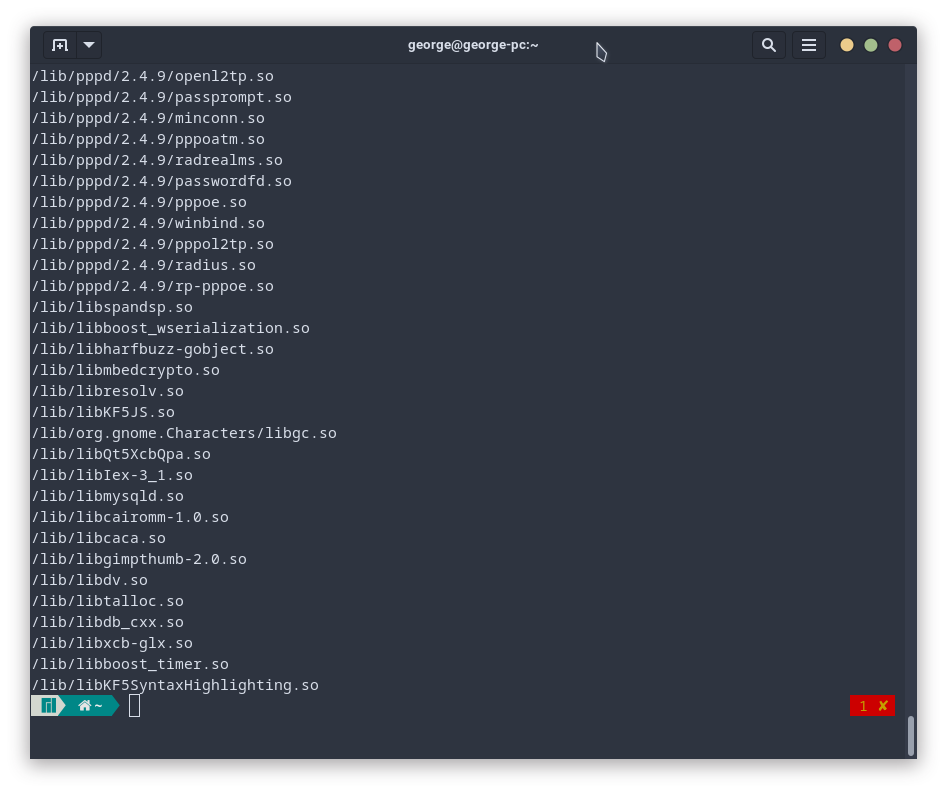
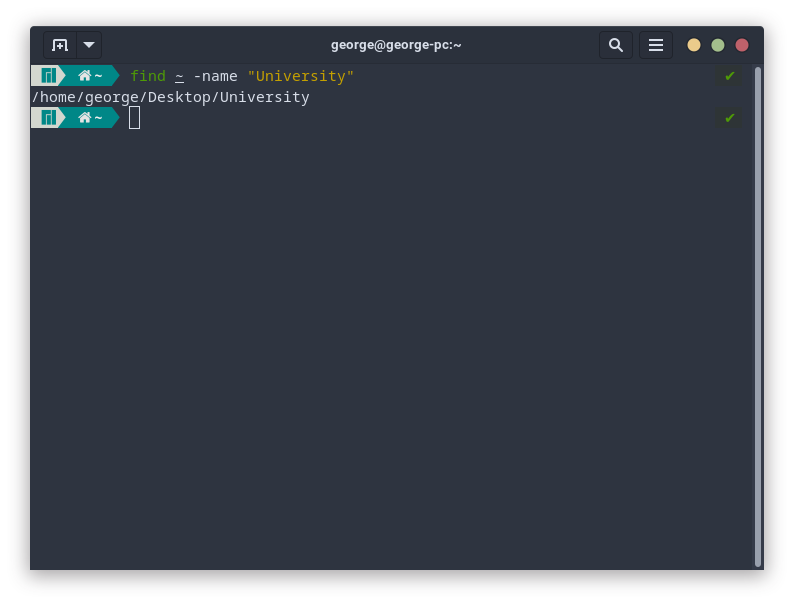
add

Changed region(s): [[0.0302, 0.0298, 0.9673, 0.9834]]

diff --git a/README.md b/README.md
@@ -337,14 +337,84 @@ $ ps -ef | grep -w "$USER"
 
 **32.** Написать команду поиска с заданным именем файла в заданной директории. Проверить работоспособность.  
 ```shell
-$ find /lib/ -iname '*.so'
+$ find ~ -name "University"  
 ```
 ***Вывод:***  
 ![32.png](/images/find/32.png)
 
 ---
 
-**33.** 
+**33.** Написать команду поиска файлов по маске
+```shell
+$ find FOLDER -name MASK 
+```
+например
+```shell
+$ find /lib/ -name "*.so"
+```
+
+---
+
+**34.** Найти ключик, отвечающий за чувствительность к регистру.
+***Ответ:*** `-iname`
+
+---
+
+**35.** Найти все файлы с набором прав доступа 777 (или любой другой комбинацией)  
+```shell
+$ find / -perm 777
+```
+---
+
+**36.** Найти все файлы с доступом только на чтение
+```shell
+$ find / -perm 444
+```
+
+---
+**37.** Найти все пустые директории
+```shell
+$ find / -type d -empty
+```
+
+---
+**38.** Найти все скрытые файлы
+```shell
+$ find / -type f -name ".*"
+```
+
+---
+**39.** Найти все файлы, модифицированные за последние 3 часа/дня
+```shell
+$ find / -type f -mmin 180
+$ find / -type f -mtime 3
+```
+
+---
+**40.** Найти все файлы, которые были открыты за последние 3 часа / дня 
+```shell
+$ find / -type f -amin 180
+$ find / -type f -atime 3
+```
+
+---
+**41.** Найти все файлы объемом от 10 до 15 Мбайт
+```shell
+$ find / -type -f -size +10M -size -15M
+```
+
+---
+**42.** Скопировать файлы из задания 32 (если они нашлись) в свою home директорию в поддиректорию tmp. (Find + cp)
+```shell
+$ mkdir tmp
+$ find ~ -name "University" -exec cp -r "{}" tmp \\; 
+```
+
+---
+**43.** Найти в home директории все скопированные файлы и удалить. (find + rm)
+```shell
+$ find tmp -type f -exec rm -f "{}" \;
+```
 
 # 5. **Bash**
 
